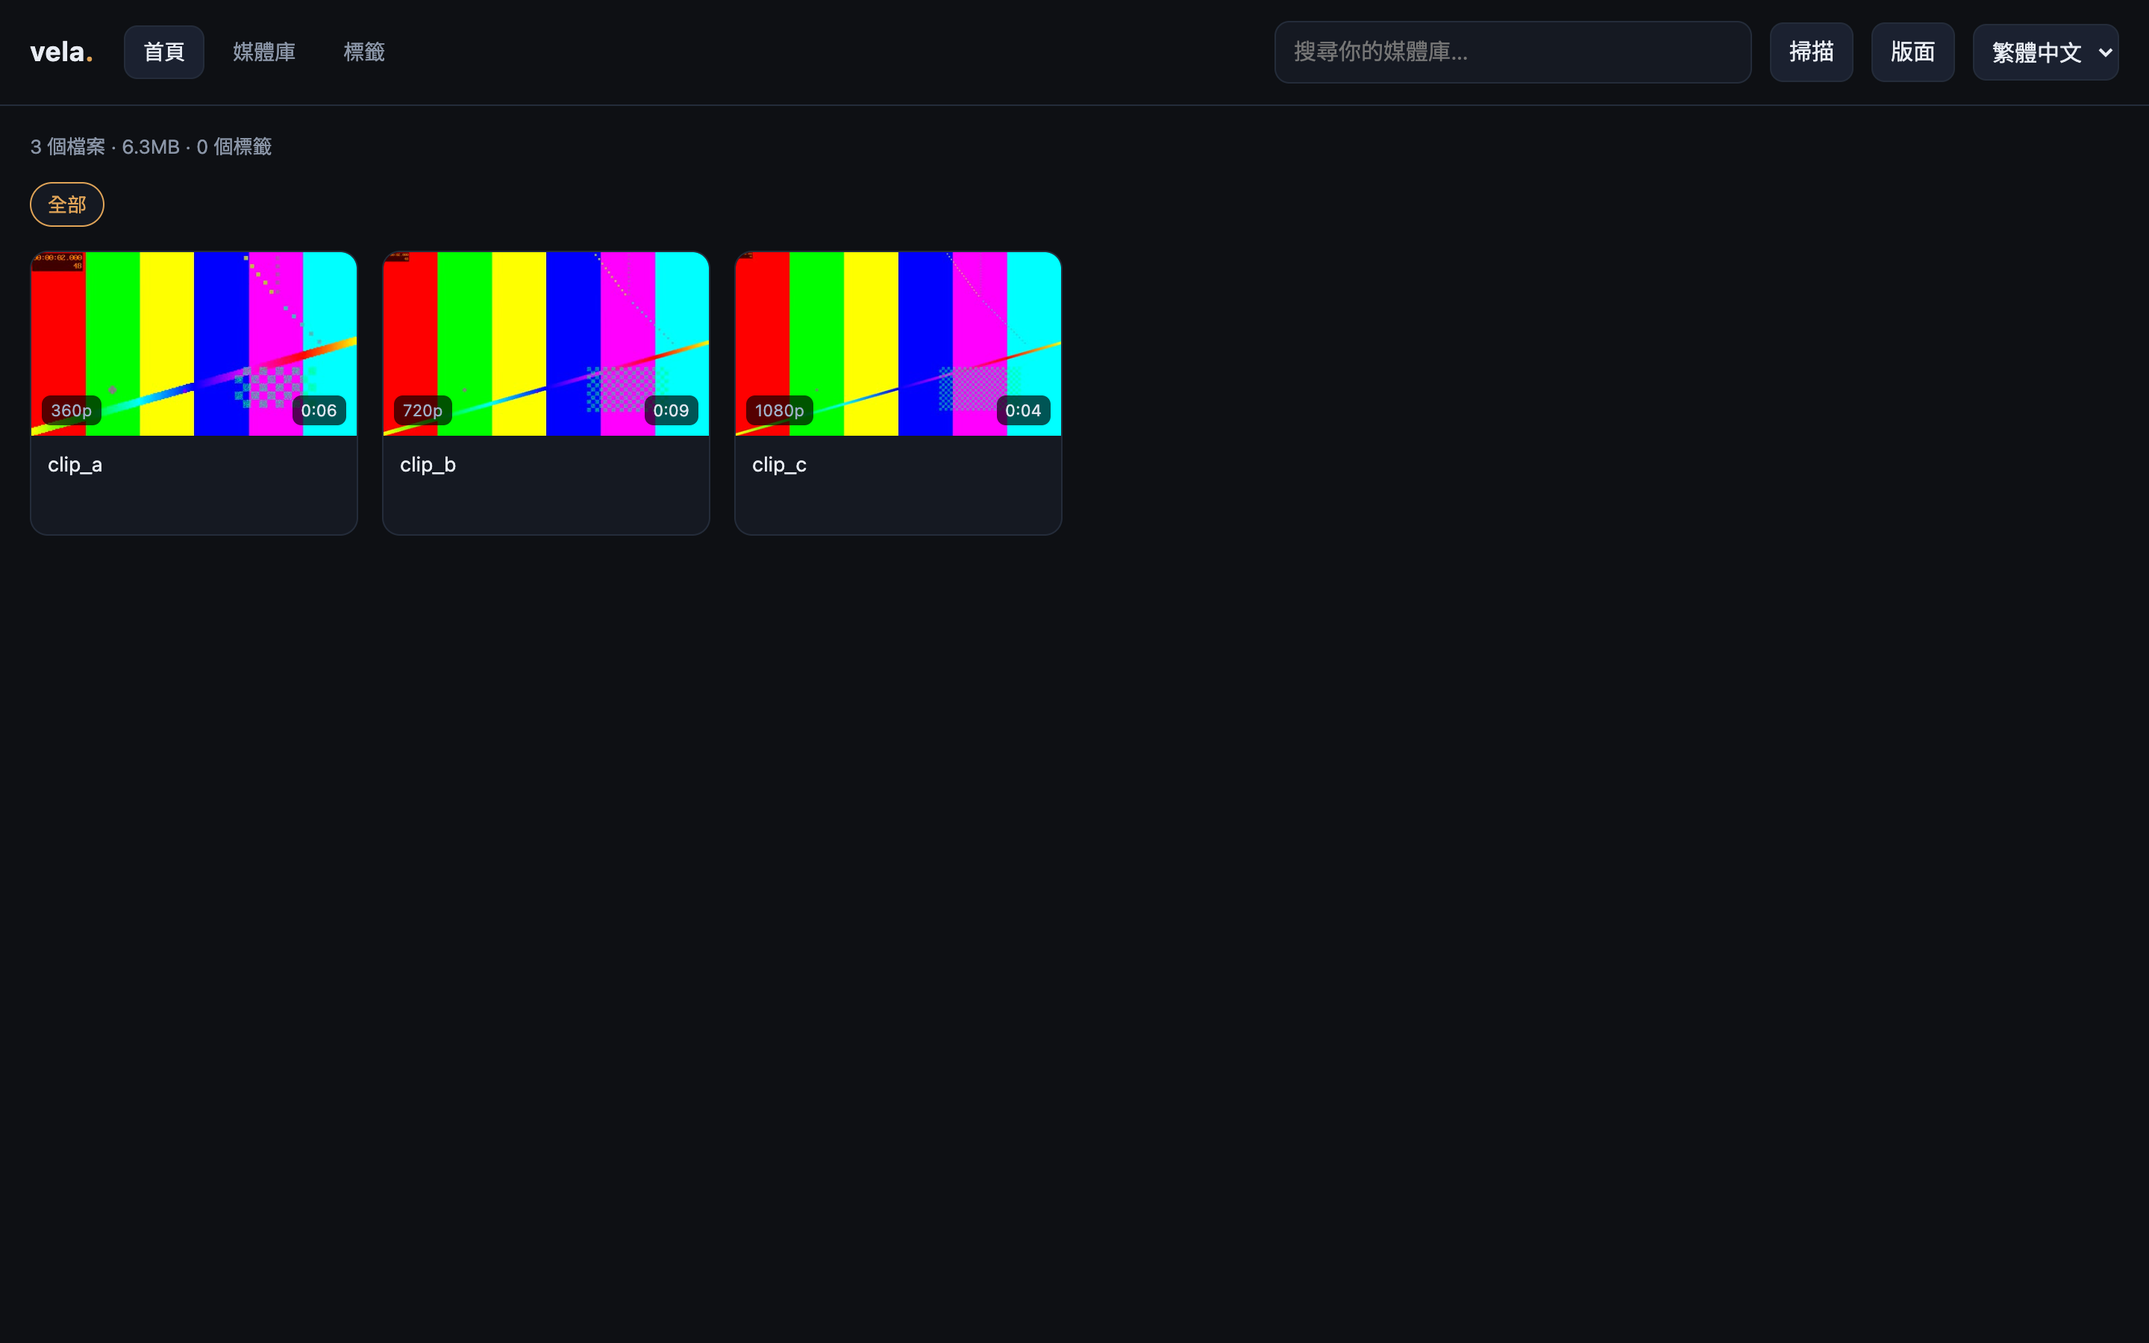
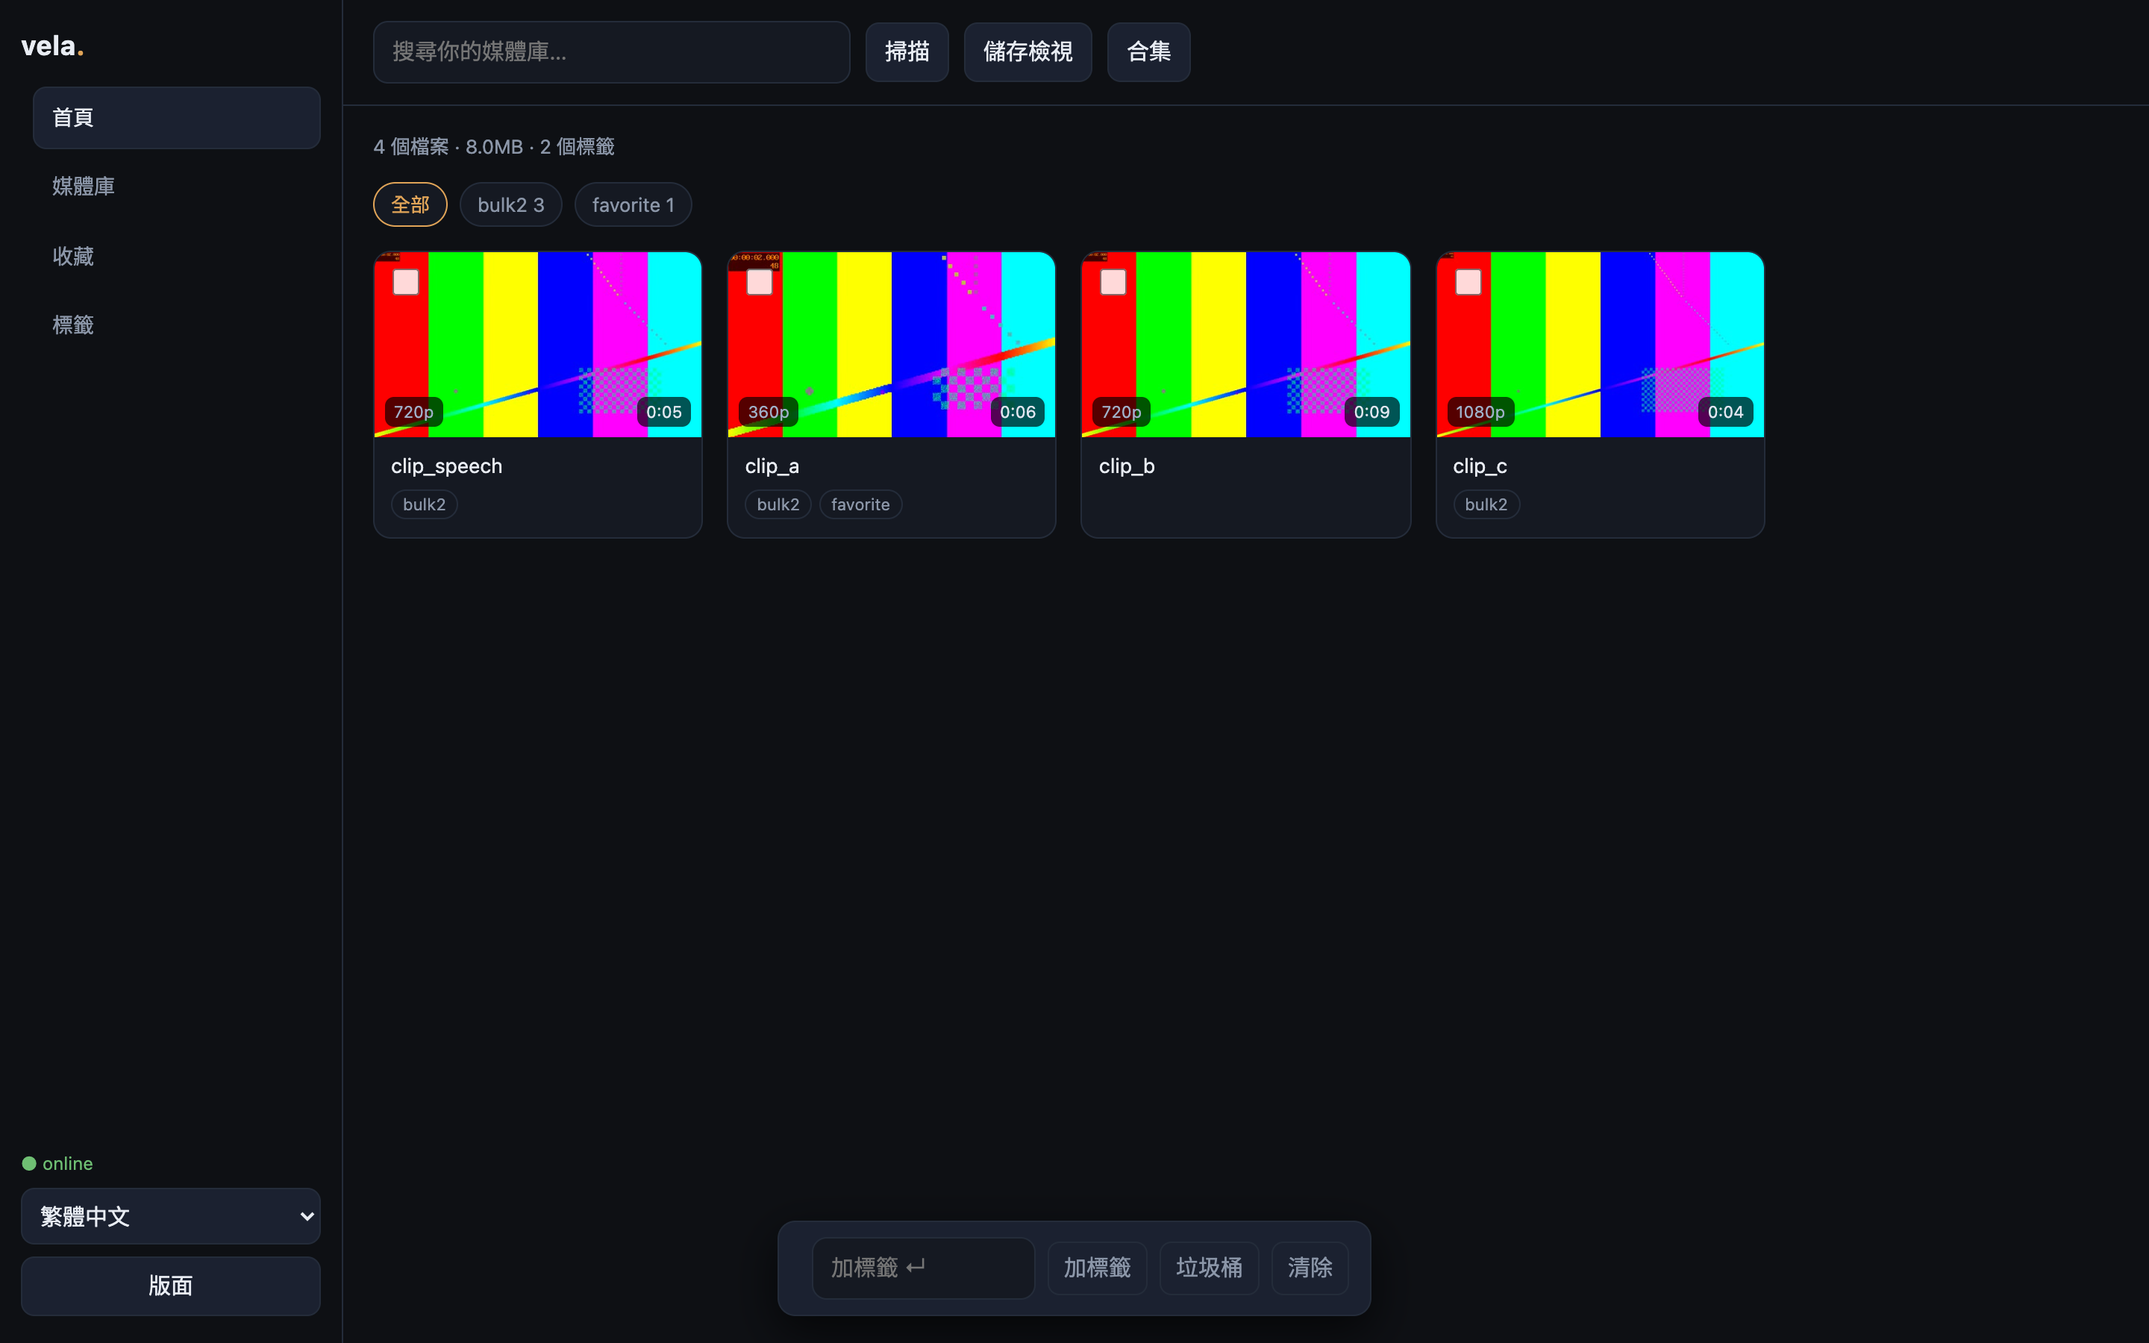
v0.4.0: desktop rail, mobile bottom nav, tag manager UI

diff --git a/web/index.html b/web/index.html
@@ -10,6 +10,18 @@
 html,body{margin:0;background:var(--bg);color:var(--text);font:15px/1.45 system-ui,-apple-system,"Segoe UI",Roboto,"Noto Sans TC",sans-serif}
 a{color:inherit;text-decoration:none}
 header{display:flex;align-items:center;gap:12px;padding:14px 20px;border-bottom:1px solid var(--line);position:sticky;top:0;background:rgba(14,16,20,.92);backdrop-filter:blur(8px);z-index:20;flex-wrap:wrap}
+.shell{display:grid;grid-template-columns:230px minmax(0,1fr);min-height:100vh}
+.rail{position:sticky;top:0;height:100vh;display:flex;flex-direction:column;gap:14px;padding:18px 14px;border-right:1px solid var(--line)}
+.rail-nav{display:flex;flex-direction:column;gap:4px}
+.rail-nav button{text-align:left;width:100%;background:none;border:1px solid transparent;color:var(--mute);padding:10px 12px;border-radius:9px;cursor:pointer;font-size:14px}
+.rail-nav button.on,.rail-nav button:hover{color:var(--text);background:var(--panel2);border-color:var(--line)}
+.rail-bottom{margin-top:auto;display:flex;flex-direction:column;gap:8px}
+.stage{min-width:0}
+.topbar{display:flex;gap:10px;align-items:center;padding:14px 20px;border-bottom:1px solid var(--line);position:sticky;top:0;background:rgba(14,16,20,.92);backdrop-filter:blur(8px);z-index:20;flex-wrap:wrap}
+.mobile-nav{display:none;position:fixed;bottom:0;left:0;right:0;background:rgba(14,16,20,.96);border-top:1px solid var(--line);padding:6px 4px calc(6px + env(safe-area-inset-bottom));z-index:30;justify-content:space-around}
+.mobile-nav button{background:none;border:0;color:var(--mute);font-size:11px;padding:6px 8px;display:flex;flex-direction:column;gap:3px;align-items:center;cursor:pointer;min-width:56px}
+.mobile-nav button.on{color:var(--accent)}
+@media(max-width:820px){.shell{display:block}.rail{display:none}.mobile-nav{display:flex}main{padding-bottom:88px}.topbar{padding:10px 12px}}
 .logo{font-weight:700;letter-spacing:.5px;font-size:18px}
 .logo span{color:var(--accent)}
 nav{display:flex;gap:6px;margin-left:8px}
@@ -66,34 +78,42 @@ body[data-density="roomy"] .grid{grid-template-columns:repeat(auto-fill,minmax(2
 </style>
 </head>
 <body>
-<header>
-  <div class="logo">vela<span>.</span></div>
-  <nav id="nav"></nav>
-  <div class="spacer"></div>
-  <input id="q" class="search" data-i18n-ph="search" autocomplete="off">
-  <button class="btn" id="scanBtn" data-i18n="scan"></button>
-  <button class="btn" id="saveViewBtn" data-i18n="saveView"></button>
-  <button class="btn" id="collectionsBtn" data-i18n="collections"></button>
-  <button class="btn" id="settingsBtn" data-i18n="layout"></button>
-  <span id="healthPill" class="small" style="white-space:nowrap">●</span>
-  <select id="lang" class="lang" aria-label="Language">
-    <option value="en">English</option>
-    <option value="zh-Hant">繁體中文</option>
-    <option value="zh-Hans">简体中文</option>
-    <option value="ko">한국어</option>
-    <option value="ja">日本語</option>
-  </select>
-</header>
-
-<main>
-  <div class="stats" id="stats"></div>
-  <div class="chips" id="chips"></div>
-  <div class="grid" id="grid"></div>
-  <div class="empty" id="empty" hidden>
-    <div data-i18n="emptyTitle"></div>
-    <div data-i18n="emptyHint"></div>
+<div class="shell">
+  <aside class="rail">
+    <div class="logo">vela<span>.</span></div>
+    <nav id="nav" class="rail-nav"></nav>
+    <div class="rail-bottom">
+      <span id="healthPill" class="small" style="white-space:nowrap">●</span>
+      <select id="lang" class="lang" aria-label="Language">
+        <option value="en">English</option>
+        <option value="zh-Hant">繁體中文</option>
+        <option value="zh-Hans">简体中文</option>
+        <option value="ko">한국어</option>
+        <option value="ja">日本語</option>
+      </select>
+      <button class="btn" id="settingsBtn" data-i18n="layout"></button>
+    </div>
+  </aside>
+  <div class="stage">
+    <header class="topbar">
+      <input id="q" class="search" data-i18n-ph="search" autocomplete="off">
+      <button class="btn" id="scanBtn" data-i18n="scan"></button>
+      <button class="btn" id="saveViewBtn" data-i18n="saveView"></button>
+      <button class="btn" id="collectionsBtn" data-i18n="collections"></button>
+    </header>
+    <main>
+      <div class="stats" id="stats"></div>
+      <div class="chips" id="chips"></div>
+      <div class="grid" id="grid"></div>
+      <div class="empty" id="empty" hidden>
+        <div data-i18n="emptyTitle"></div>
+        <div data-i18n="emptyHint"></div>
+      </div>
+    </main>
   </div>
-</main>
+</div>
+
+<nav class="mobile-nav" id="mobileNav" aria-label="Primary"></nav>
 
 <dialog id="player">
   <div class="player">
@@ -127,6 +147,7 @@ body[data-density="roomy"] .grid{grid-template-columns:repeat(auto-fill,minmax(2
   <div class="row"><div class="name" data-i18n="radius"></div><input id="radiusInput" type="range" min="0" max="24" value="12"></div>
   <h4 style="margin-top:14px" data-i18n="addLink"></h4>
   <div class="row"><input id="linkLabel" class="search" style="width:110px" data-i18n-ph="label"><input id="linkURL" class="search" style="width:130px" data-i18n-ph="url"><button class="iconbtn" id="addLinkBtn" data-i18n="add"></button></div>
+  <button class="btn" id="tagManagerBtn" data-i18n="manageTags" style="width:100%;margin-top:10px"></button>
   <div style="display:flex;gap:8px;margin-top:12px">
     <button class="btn primary" id="saveLayout" data-i18n="save"></button>
     <button class="btn" id="resetLayout" data-i18n="reset"></button>
@@ -137,6 +158,16 @@ body[data-density="roomy"] .grid{grid-template-columns:repeat(auto-fill,minmax(2
   <h4 data-i18n="collections"></h4>
   <div id="collectionRows"></div>
 </div>
+
+<dialog id="tagDlg">
+  <div style="padding:14px;min-width:min(420px,90vw)">
+    <div style="display:flex;justify-content:space-between;align-items:center;margin-bottom:8px">
+      <h3 style="margin:0;font-size:15px" data-i18n="manageTags"></h3>
+      <button class="iconbtn" id="tagClose" data-i18n="close"></button>
+    </div>
+    <div id="tagRows" style="max-height:60vh;overflow:auto"></div>
+  </div>
+</dialog>
 
 <div class="bulkbar" id="bulkbar" hidden>
   <span id="bulkCount"></span>
@@ -162,7 +193,7 @@ const I18N = {
         files:'files', tagsLabel:'tags', all:'All', subs:'Subtitles', generating:'Generating subtitles…', off:'Off',
         saveView:'Save view', collections:'Collections', selected:'selected', applyTag:'Tag', trashSel:'Trash', clear:'Clear',
         theme:'Theme', accent:'Accent', density:'Density', radius:'Radius', addLink:'Add link', label:'Label', url:'URL',
-        add:'Add', apply:'Apply', delete:'Delete', hide:'Hide', favorites:'Favourites' },
+        add:'Add', apply:'Apply', delete:'Delete', hide:'Hide', favorites:'Favourites', manageTags:'Manage tags', rename:'Rename', merge:'Merge' },
   'zh-Hant': { home:'首頁', library:'媒體庫', tags:'標籤', search:'搜尋你的媒體庫…', scan:'掃描', layout:'版面',
         emptyTitle:'仲未有媒體。', emptyHint:'喺終端機跑 `vela scan`，然後按「掃描」。', addTag:'加標籤 ↵',
         trash:'移到垃圾桶', close:'關閉', panelTitle:'側欄次序', save:'儲存', reset:'還原',
@@ -171,7 +202,7 @@ const I18N = {
         files:'個檔案', tagsLabel:'個標籤', all:'全部', subs:'字幕', generating:'生成字幕中…', off:'關閉',
         saveView:'儲存檢視', collections:'合集', selected:'已選', applyTag:'加標籤', trashSel:'垃圾桶', clear:'清除',
         theme:'主題', accent:'主色', density:'密度', radius:'圓角', addLink:'新增連結', label:'名稱', url:'網址',
-        add:'新增', apply:'套用', delete:'刪除', hide:'隱藏', favorites:'收藏' },
+        add:'新增', apply:'套用', delete:'刪除', hide:'隱藏', favorites:'收藏', manageTags:'管理標籤', rename:'改名', merge:'合併' },
   'zh-Hans': { home:'首页', library:'媒体库', tags:'标签', search:'搜索你的媒体库…', scan:'扫描', layout:'布局',
         emptyTitle:'还没有媒体。', emptyHint:'在终端运行 `vela scan`，然后点“扫描”。', addTag:'添加标签 ↵',
         trash:'移到回收站', close:'关闭', panelTitle:'侧栏顺序', save:'保存', reset:'重置',
@@ -180,7 +211,7 @@ const I18N = {
         files:'个文件', tagsLabel:'个标签', all:'全部', subs:'字幕', generating:'正在生成字幕…', off:'关闭',
         saveView:'保存视图', collections:'收藏夹', selected:'已选', applyTag:'加标签', trashSel:'回收站', clear:'清除',
         theme:'主题', accent:'主色', density:'密度', radius:'圆角', addLink:'添加链接', label:'名称', url:'网址',
-        add:'添加', apply:'应用', delete:'删除', hide:'隐藏', favorites:'收藏' },
+        add:'添加', apply:'应用', delete:'删除', hide:'隐藏', favorites:'收藏', manageTags:'管理標籤', rename:'改名', merge:'合併' },
   ko: { home:'홈', library:'라이브러리', tags:'태그', search:'라이브러리 검색…', scan:'스캔', layout:'레이아웃',
         emptyTitle:'미디어가 없습니다.', emptyHint:'터미널에서 `vela scan` 실행 후 스캔을 누르세요.', addTag:'태그 추가 ↵',
         trash:'휴지통으로', close:'닫기', panelTitle:'사이드바 순서', save:'저장', reset:'초기화',
@@ -189,7 +220,7 @@ const I18N = {
         files:'개 파일', tagsLabel:'개 태그', all:'전체', subs:'자막', generating:'자막 생성 중…', off:'끄기',
         saveView:'보기 저장', collections:'컬렉션', selected:'선택됨', applyTag:'태그', trashSel:'휴지통', clear:'해제',
         theme:'테마', accent:'강조색', density:'밀도', radius:'모서리', addLink:'링크 추가', label:'이름', url:'URL',
-        add:'추가', apply:'적용', delete:'삭제', hide:'숨기기', favorites:'즐겨찾기' },
+        add:'추가', apply:'적용', delete:'삭제', hide:'숨기기', favorites:'즐겨찾기', manageTags:'태그 관리', rename:'이름 변경', merge:'병합' },
   ja: { home:'ホーム', library:'ライブラリ', tags:'タグ', search:'ライブラリを検索…', scan:'スキャン', layout:'レイアウト',
         emptyTitle:'メディアがありません。', emptyHint:'ターミナルで `vela scan` を実行してからスキャンを押してください。', addTag:'タグを追加 ↵',
         trash:'ゴミ箱へ移動', close:'閉じる', panelTitle:'サイドバーの順序', save:'保存', reset:'リセット',
@@ -198,7 +229,7 @@ const I18N = {
         files:'ファイル', tagsLabel:'タグ', all:'すべて', subs:'字幕', generating:'字幕を生成中…', off:'オフ',
         saveView:'ビューを保存', collections:'コレクション', selected:'選択中', applyTag:'タグ', trashSel:'ゴミ箱', clear:'クリア',
         theme:'テーマ', accent:'アクセント', density:'密度', radius:'角丸', addLink:'リンク追加', label:'名前', url:'URL',
-        add:'追加', apply:'適用', delete:'削除', hide:'非表示', favorites:'お気に入り' }
+        add:'追加', apply:'適用', delete:'削除', hide:'非表示', favorites:'お気に入り', manageTags:'タグ管理', rename:'名前変更', merge:'統合' }
 };
 function t(k){ return (I18N[state.lang] && I18N[state.lang][k]) || I18N.en[k] || k; }
 function applyI18n(){
@@ -225,15 +256,28 @@ async function loadLayout(){
   state.layout.sidebar=sb;
   applyTheme(); renderNav(); renderLayoutRows();
 }
+function navAction(item){
+  if(item.type==='link'){ window.open(item.url,'_blank','noopener'); return; }
+  if(item.id==='home'){ state.tag=''; state.q=''; $('#q').value=''; load(); }
+  else if(item.id==='tags'){ $('#chips').scrollIntoView({behavior:'smooth'}); }
+  else if(item.id==='favorites'){ state.tag='favorite'; load(); }
+  else load();
+}
 function renderNav(){
   const nav=$('#nav'); if(!nav) return; nav.innerHTML='';
-  (state.layout?.sidebar||[]).filter(i=>!i.hidden).forEach(item=>{
+  (state.layout?.sidebar||[]).filter(i=>!i.hidden).sort((a,b)=>(a.order||0)-(b.order||0)).forEach(item=>{
     const b=document.createElement('button'); b.textContent=navLabel(item);
-    if(item.type==='link'){ b.onclick=()=>window.open(item.url,'_blank','noopener'); }
-    else b.onclick=()=>{ if(item.id==='home'){ state.tag=''; state.q=''; $('#q').value=''; load(); } else if(item.id==='tags'){ $('#chips').scrollIntoView({behavior:'smooth'}); } else if(item.id==='favorites'){ state.tag='favorite'; load(); } else { load(); } };
+    b.onclick=()=>navAction(item);
     if(item.id==='home') b.classList.add('on');
     nav.appendChild(b);
   });
+  renderMobileNav();
+}
+function renderMobileNav(){
+  const box=$('#mobileNav'); if(!box) return; box.innerHTML='';
+  const items=(state.layout?.sidebar||[]).filter(i=>!i.hidden && i.type!=='link').slice(0,4);
+  items.forEach(item=>{ const b=document.createElement('button'); b.textContent=navLabel(item); b.onclick=()=>navAction(item); box.appendChild(b); });
+  const more=document.createElement('button'); more.textContent='⋯'; more.setAttribute('aria-label','More'); more.onclick=()=>$('#settingsBtn').click(); box.appendChild(more);
 }
 function renderLayoutRows(){
   const box=$('#layoutRows'); if(!box) return; box.innerHTML='';
@@ -388,6 +432,25 @@ $('#scanBtn').onclick=async()=>{ const r=await api('/api/scan',{method:'POST',he
 $('#settingsBtn').onclick=()=>$('#panel').classList.toggle('open');
 $('#saveLayout').onclick=async()=>{ await api('/api/layout',{method:'PUT',headers:{'Content-Type':'application/json'},body:JSON.stringify(state.layout)}); toast(t('layoutSaved')); $('#panel').classList.remove('open'); };
 $('#resetLayout').onclick=async()=>{ state.layout = await api('/api/layout'); renderLayoutRows(); renderNav(); toast(t('loaded')); };
+async function openTagManager(){
+  const d=await api('/api/tags');
+  const box=$('#tagRows'); box.innerHTML='';
+  (d.tags||[]).forEach(x=>{
+    const row=document.createElement('div'); row.className='row';
+    const n=document.createElement('div'); n.className='name'; n.textContent=`${x.name} (${x.count})`;
+    const rn=document.createElement('button'); rn.className='iconbtn'; rn.textContent=t('rename');
+    rn.onclick=async()=>{ const v=prompt(t('rename')+': '+x.name); if(!v) return; await api('/api/tags/rename',{method:'POST',headers:{'Content-Type':'application/json'},body:JSON.stringify({from:x.name,to:v})}); openTagManager(); load(); };
+    const mg=document.createElement('button'); mg.className='iconbtn'; mg.textContent=t('merge');
+    mg.onclick=async()=>{ const v=prompt(t('merge')+' →'); if(!v) return; await api('/api/tags/merge',{method:'POST',headers:{'Content-Type':'application/json'},body:JSON.stringify({from:x.name,to:v})}); openTagManager(); load(); };
+    const del=document.createElement('button'); del.className='iconbtn'; del.textContent='×';
+    del.onclick=async()=>{ if(!confirm('Delete '+x.name+'?')) return; await api('/api/tags/'+encodeURIComponent(x.name),{method:'DELETE'}); openTagManager(); load(); };
+    row.append(n,rn,mg,del); box.appendChild(row);
+  });
+  $('#tagDlg').showModal();
+}
+$('#tagManagerBtn').onclick=openTagManager;
+$('#tagClose').onclick=()=>$('#tagDlg').close();
+
 $('#saveViewBtn').onclick=async()=>{ const name=prompt(t('saveView')); if(!name) return; await api('/api/collections',{method:'POST',headers:{'Content-Type':'application/json'},body:JSON.stringify({name,query:JSON.stringify({q:state.q,tag:state.tag})})}); await loadCollections(); toast(t('layoutSaved')); };
 $('#collectionsBtn').onclick=async()=>{ await loadCollections(); $('#collectionsPanel').classList.toggle('open'); };
 $('#bulkTagBtn').onclick=async()=>{ const v=$('#bulkTag').value.trim(); if(!v) return; await bulk('tag',v); $('#bulkTag').value=''; };

diff --git a/docs/UI-REVIEW.md b/docs/UI-REVIEW.md
@@ -20,8 +20,8 @@ Flow was reviewed from its source at `~/HermesHub/07-scripts-staging/sandbox/por
 
 | Area | Flow | Vela (before) | Action |
 |---|---|---|---|
-| Navigation shell | desktop rail + top bar | single row | rail shell planned for 0.4 |
-| Mobile nav | bottom bar + more | header wraps | bottom nav planned |
+| Navigation shell | desktop rail + top bar | single row | **adopted**: desktop rail + top bar |
+| Mobile nav | bottom bar + more | header wraps | **adopted**: five-slot bottom nav |
 | Health/status | pill + polling | none | **adopted**: pill + 15s poll |
 | Emergency stop | global STOP | none | needs device daemon |
 | Favourites | dedicated section | none | **adopted**: nav item + star |
